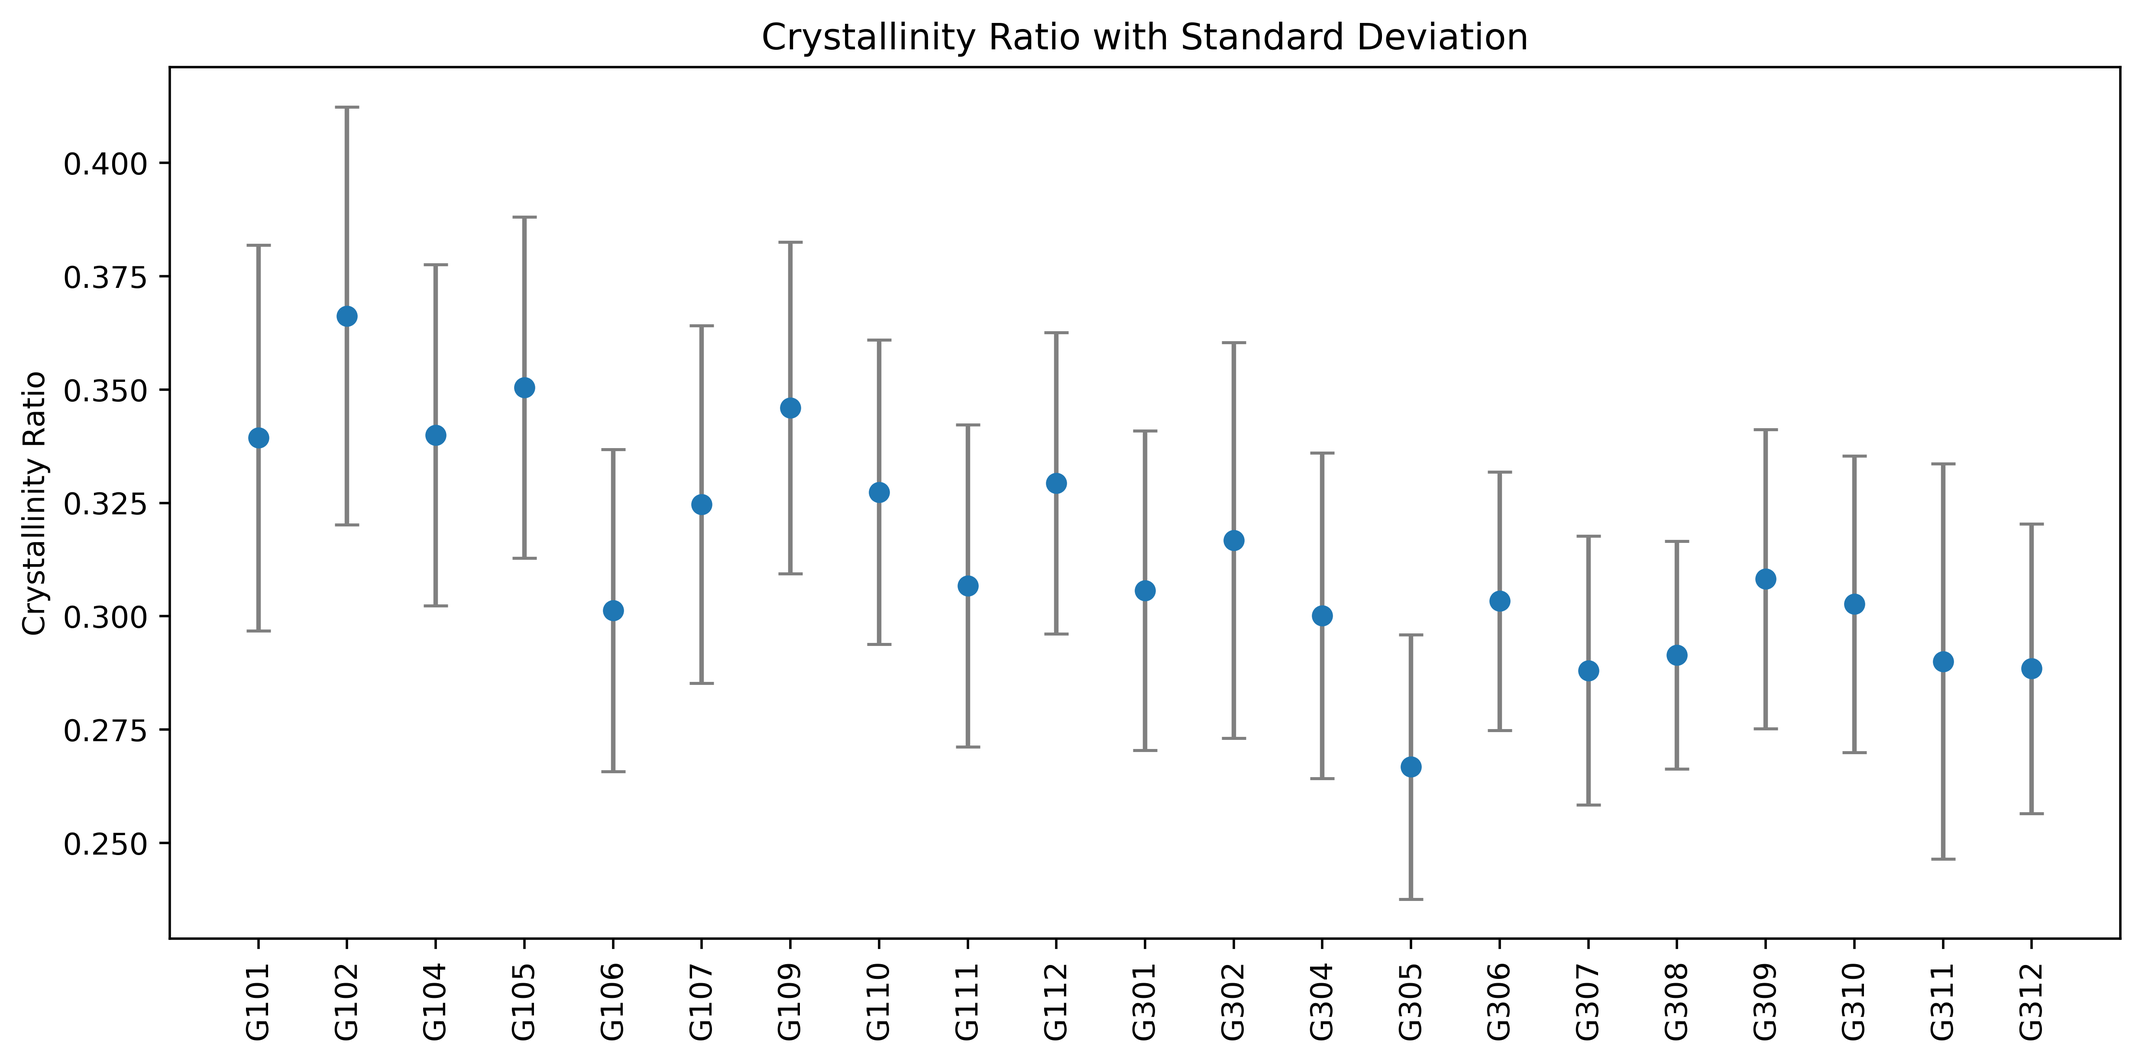
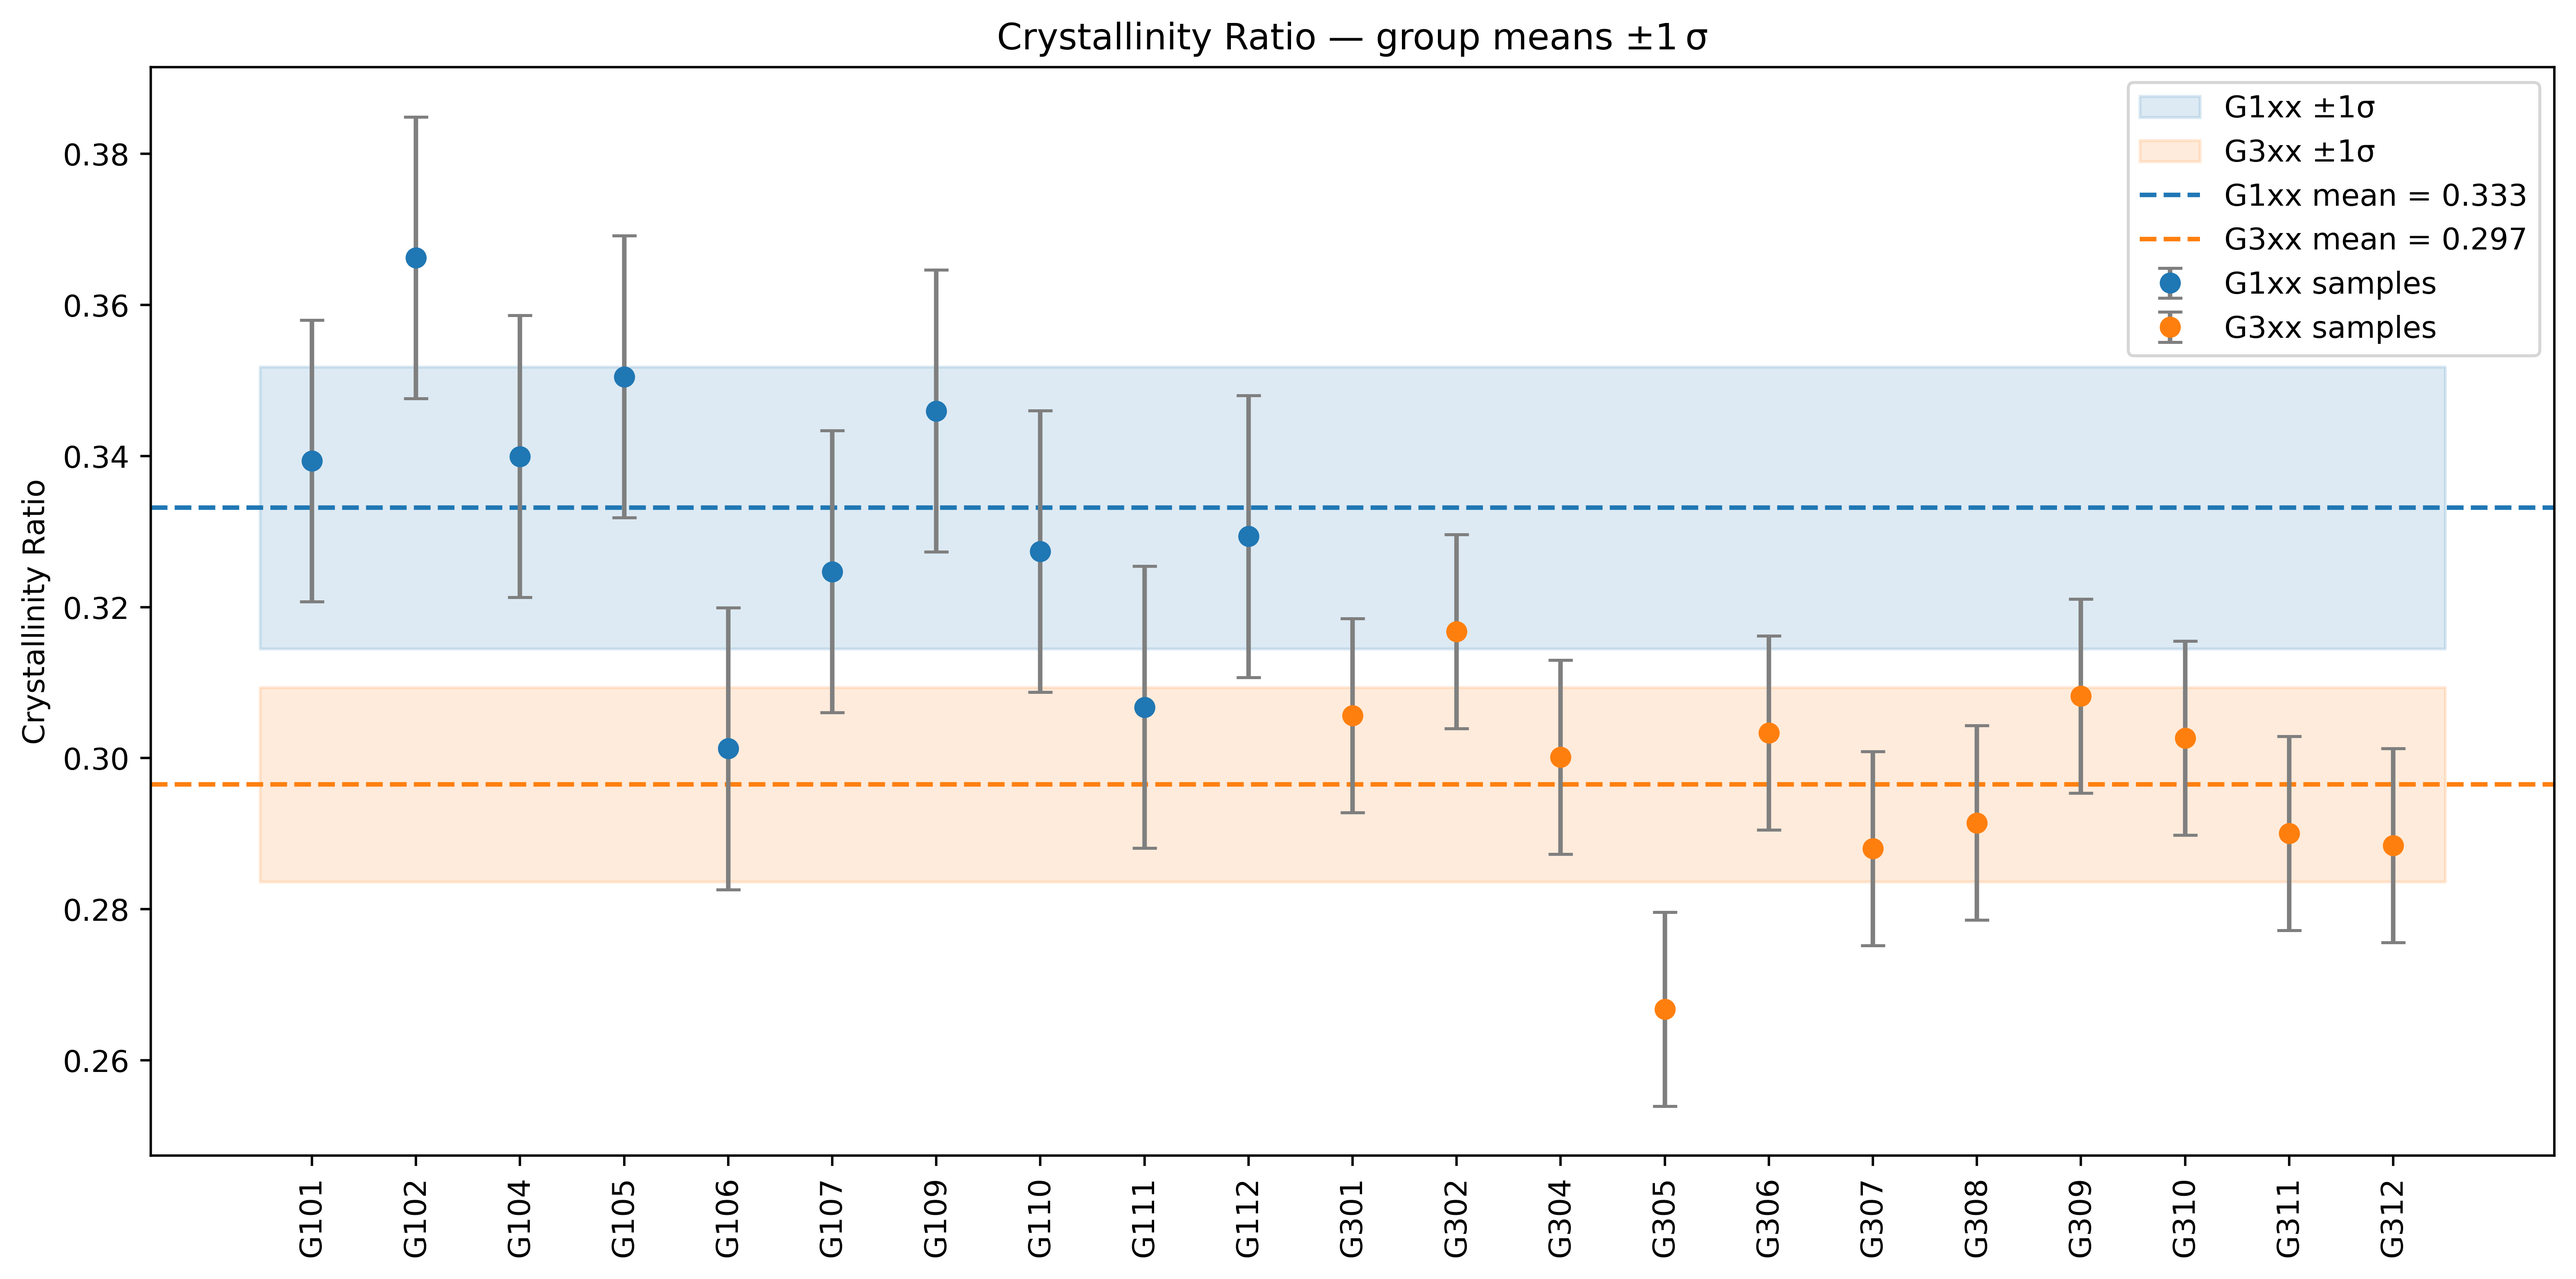
feat: separate median value and color for cristallinity plot
chore: upload new cristallinity plot

diff --git a/scripts/data-analysis/main.py b/scripts/data-analysis/main.py
@@ -132,32 +132,85 @@ def compute_crystallinity_ratio(ref_path, numerator_peaks, total_peaks):
 
 
 # ------------------------------------------------------------------
-# Crystallinity summary plot
+# Crystallinity summary plot (group‑mean bands and group‑coloured points)
 # ------------------------------------------------------------------
 def plot_crystallinity_summary(csv_path, save_path=None):
+    """
+    • per‑sample error bars
+      – G1xx  → blue points
+      – G3xx  → orange points
+    • group means ± 1 σ as shaded bands + dashed lines
+    """
+    import matplotlib.pyplot as plt
+    import numpy as np
+    import pandas as pd
+
     df = pd.read_csv(csv_path)
 
-    # Natural numeric sort: G101 -> 101
+    # Natural numeric sort  (G101, G102, …)
     df["Sample_num"] = df["Sample"].str.extract(r"(\d+)").astype(int)
-    df = df.sort_values("Sample_num")
+    df = df.sort_values("Sample_num").reset_index(drop=True)
 
-    plt.figure(figsize=(10, 5))
+    x = np.arange(len(df))  # x‑axis positions
+
+    # Masks
+    g1_mask = df["Sample"].str.startswith("G1")
+    g3_mask = df["Sample"].str.startswith("G3")
+
+    # Group stats
+    mean_g1 = df.loc[g1_mask, "Crystallinity Ratio"].mean()
+    std_g1  = df.loc[g1_mask, "Crystallinity Ratio"].std(ddof=0)
+
+    mean_g3 = df.loc[g3_mask, "Crystallinity Ratio"].mean()
+    std_g3  = df.loc[g3_mask, "Crystallinity Ratio"].std(ddof=0)
+
+    # ------------------------------------------------ plotting
+    plt.figure(figsize=(12, 6))
+
+    # Shaded ±1 σ bands
+    full_span = [-0.5, len(df) - 0.5]
+    plt.fill_between(full_span, mean_g1 - std_g1, mean_g1 + std_g1,
+                     color="tab:blue", alpha=0.15, zorder=0, label="G1xx ±1σ")
+    plt.fill_between(full_span, mean_g3 - std_g3, mean_g3 + std_g3,
+                     color="tab:orange", alpha=0.15, zorder=0, label="G3xx ±1σ")
+
+    # Mean lines
+    plt.axhline(mean_g1, color="tab:blue", linestyle="--",
+                linewidth=1.5, label=f"G1xx mean = {mean_g1:.3f}")
+    plt.axhline(mean_g3, color="tab:orange", linestyle="--",
+                linewidth=1.5, label=f"G3xx mean = {mean_g3:.3f}")
+
+    # Per‑sample points with error bars, coloured by group
     plt.errorbar(
-        df["Sample"], df["Crystallinity Ratio"], yerr=df["Std. Dev."],
-        fmt='o', ecolor='gray', capsize=4
+        x[g1_mask], df.loc[g1_mask, "Crystallinity Ratio"],
+        yerr=df.loc[g1_mask, "Std. Dev."],
+        fmt='o', color="tab:blue", ecolor="tab:gray",
+        capsize=4, label="G1xx samples", zorder=3
     )
-    plt.xticks(rotation=90)
+    plt.errorbar(
+        x[g3_mask], df.loc[g3_mask, "Crystallinity Ratio"],
+        yerr=df.loc[g3_mask, "Std. Dev."],
+        fmt='o', color="tab:orange", ecolor="tab:gray",
+        capsize=4, label="G3xx samples", zorder=3
+    )
+
+    # Axis cosmetics
+    plt.xticks(x, df["Sample"], rotation=90)
     plt.ylabel("Crystallinity Ratio")
-    plt.title("Crystallinity Ratio with Standard Deviation")
+    plt.title("Crystallinity Ratio — group means ±1 σ")
     plt.grid(False)
+    plt.legend()
     plt.tight_layout()
 
+    # Save / show
     if save_path:
         plt.savefig(save_path, bbox_inches="tight", dpi=500)
         print(f"Saved crystallinity summary plot to {save_path}")
         plt.close()
     else:
         plt.show()
+
+
 
 
 # ------------------------------------------------------------------
@@ -525,10 +578,15 @@ def batch_plot(
         csv_path = os.path.join(final_outdir, "crystallinity_summary.csv")
         with open(csv_path, mode="w", newline="") as f:
             writer = csv.writer(f)
-            writer.writerow(["Sample", "Crystallinity Ratio", "Group Std. Dev."])
+            writer.writerow(["Sample", "Crystallinity Ratio", "Std. Dev."])
             for sample, ratio, _ in summary:
                 prefix = "G3" if sample.startswith("G3") else "G1"
                 writer.writerow([sample, f"{ratio:.5f}", f"{group_std[prefix]:.5f}"])
+                
+       # ------------------------------- plot -------------------------------------
+        plot_path = os.path.join(final_outdir, "crystallinity_summary_plot.png")
+        plot_crystallinity_summary(csv_path, save_path=plot_path)
+    
 
 
     # Peak position drift
